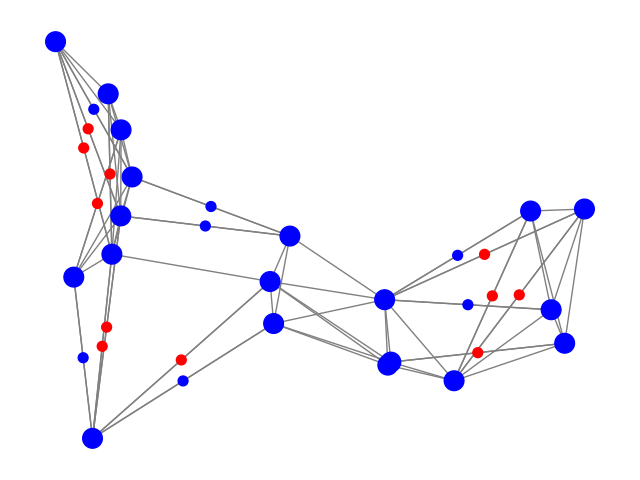
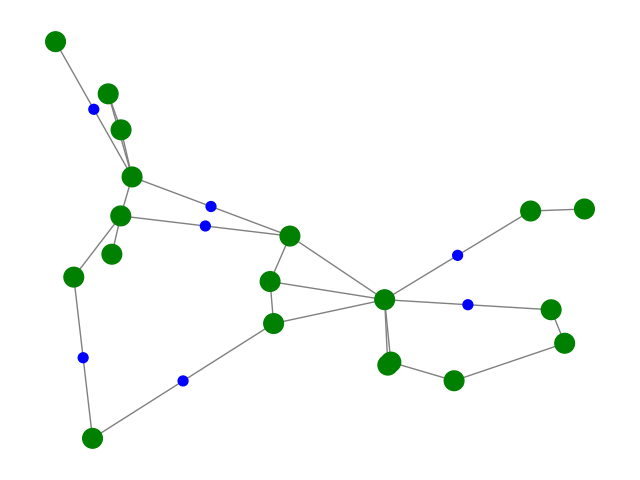
SECON version

diff --git a/src/utils/plot.py b/src/utils/plot.py
@@ -109,6 +109,7 @@ def plot_nx_graph(
 def plot_simple_topology(
         graph: nx.Graph,
         Im=None, Ic=None,
+        users=None,
         filename: str='./result/fig.png'
         ):
     """
@@ -122,27 +123,41 @@ def plot_simple_topology(
     #     if not 0 < lat < 90 or not -180 < lon < 180:
     #         raise ValueError(f'Invalid latitude and longitude: {lat}, {lon}')
     pos = {node: (lon, lat) for node, (lat, lon) in pos.items()}
-    node_colors = ['blue' if graph.nodes[node]['group'] == 0 else 'green' for node in graph.nodes]
+    # node_colors = ['blue' if graph.nodes[node]['group'] == 0 else 'green' for node in graph.nodes(data=False)]
     # node_colors = ['blue' for node in graph.nodes]
     node_sizes = [ 200 if graph.nodes[node]['group'] == 0 else 50 for node in graph.nodes]
 
 
     if Im is None:
-        Im = {node: 1 for node in graph.nodes}
+        Im = {node: 1 for node in graph.nodes(data=False)}
     if Ic is None:
-        Ic = {edge: 1 for edge in graph.edges}
+        Ic = {edge: 1 for edge in graph.edges(data=False)}
+    if users is None:
+        users = graph.nodes(data=False)
 
     # node_colors = ['blue' if graph.nodes[node]['group'] == 0 else 'red' for node in graph.nodes]
-    node_colors = ['blue' if Im[node] == 1 else 'red' for node in Im]
+    # node_colors = ['blue' if Im[node] == 1 else 'red' for node in Im.keys()]
+    # for user in users:
+    #     node_colors[user] = 'green'
+
+    # remove unused nodes
+    empty_nodes = [ node for node in Im.keys() if Im[node] == 0]
+    graph.remove_nodes_from(empty_nodes)
+    # node_colors = [color for node, color in zip(graph.nodes, node_colors)]
+    # node_sizes = [size for node, size in zip(graph.nodes, node_sizes)]
     # remove all edges
     graph.remove_edges_from(list(graph.edges))
     # add edges with channel utilization
     for edge in Ic:
         u, v = edge
-        graph.add_edge(u, v, weight=Ic[edge])
+        if Ic[edge] > 0:
+            graph.add_edge(u, v, length=Ic[edge])
 
+    node_sizes = [ 200 if graph.nodes[node]['group'] == 0 else 50 for node in graph.nodes]
+    node_colors = ['green' if size == 200 else 'blue' for size in node_sizes]
     nx.draw(graph, pos, with_labels=False, 
-        node_color=node_colors, node_size=node_sizes,
+        node_color=node_colors, 
+        node_size=node_sizes,
         edge_color='grey', width=1, edge_cmap=plt.cm.Blues
     )
 
@@ -156,6 +171,7 @@ def plot_lines(
     xlabel, ylabel,
     labels, 
     colors=None, 
+    markers=None,
     adjust=(0.2, 0.2, 0.95, 0.95),
     xscale='linear', yscale='linear',
     xticklabel=None, yticklabel=None,
@@ -170,15 +186,18 @@ def plot_lines(
     if colors is None:
         # get matpliotlib default color cycle
         colors = plt.rcParams['axes.prop_cycle'].by_key()['color']
+    if markers is None:
+        markers = ['o', 's', '^', 'v', 'x', '+', 'd', 'p', 'h']
     
-    for y, label, color, in zip(ys, labels, colors):
+    for y, label, color, marker in zip(ys, labels, colors, markers):
         # find first y > ylim[1]
         if ylim is not None:
             idx = np.where(y > ylim[1])[0]
             if len(idx) > 0:
                 y = y[:idx[0]]
                 x = x[:idx[0]]
-        plt.plot(x, y, label=label, color=color,)
+        # hollow markers
+        plt.plot(x, y, label=label, color=color, marker=marker, markerfacecolor='none', markersize=10)
 
     plt.xlabel(xlabel, fontsize=20)
     plt.ylabel(ylabel, fontsize=20)
@@ -211,9 +230,10 @@ def plot_2y_lines(
     xlabel, y1_label, y2_label,
     y1_labels, y2_labels,
     y1_styles, y2_styles,
-    y1_colors, y2_colors,
     y1_markers, y2_markers,
+    y1_colors=None, y2_colors=None,
     xscale='linear', y1_scale='linear', y2_scale='linear',
+    x_tickstyle=None, y1_tickstyle=None, y2_tickstyle=None,
     xreverse=False, y1_reverse=False, y2_reverse=False,
     xlim=None, y1_lim=None, y2_lim=None,
     filename='pic.png',
@@ -221,6 +241,10 @@ def plot_2y_lines(
     """
     two y-axis in one figure
     """
+    if y1_colors is None:
+        y1_colors = plt.rcParams['axes.prop_cycle'].by_key()['color']
+    if y2_colors is None:
+        y2_colors = plt.rcParams['axes.prop_cycle'].by_key()['color']
     if y1_labels is None:
         y1_labels = ['' for _ in ys1]
     if y2_labels is None:
@@ -266,6 +290,13 @@ def plot_2y_lines(
     ax1.set_xscale(xscale)
     ax1.set_yscale(y1_scale)
     ax2.set_yscale(y2_scale)
+    # set x ticklabel format
+    if x_tickstyle is not None:
+        ax1.ticklabel_format(axis='x', style=x_tickstyle, scilimits=(0,0))
+    if y1_tickstyle is not None:
+        ax1.ticklabel_format(axis='y', style=y1_tickstyle, scilimits=(0,0))
+    if y2_tickstyle is not None:
+        ax2.ticklabel_format(axis='y', style=y2_tickstyle, scilimits=(0,0))
     if xreverse:
         ax1.invert_xaxis()
     if y1_reverse:

diff --git a/src/test/topo.py b/src/test/topo.py
@@ -47,7 +47,7 @@ def run_path_solver(
     
     return total_time, times, objs, Im, Ic
 
-def compare_demand_intensity(params, repeat=1):
+def compare_dense_topology(params, repeat=1):
     """
     This set of evaluations compares different network scales
     """
@@ -55,18 +55,22 @@ def compare_demand_intensity(params, repeat=1):
     # random.seed(seed)
     # np.random.seed(seed)
     
-    density = 5
+    densities = [2, 4, 6, 8, 10]
+    demand = 10
     k = 100
-    fracs = [0.1, 0.5, 1]
-    names = ['LOW', 'MEDIUM', 'HIGH']
-    demands = [ 1, 10, 100,]
     seg_len = 150
 
-    opt_path_objs = np.zeros((len(demands), repeat)) * np.nan
-    opt_path_times = np.zeros((len(demands), repeat)) * np.nan
+    opt_path_objs = np.zeros((len(densities), repeat)) * np.nan
+    opt_path_times = np.zeros((len(densities), repeat)) * np.nan
 
-    for i, demand, frac in zip(range(len(demands)), demands, fracs):
-        print(f"demand {demand}")
+    vsrc = VertexSource.NOEL
+    vset = VertexSet(vsrc)
+    task = Task(vset, 0.5, (demand, demand+1))
+    raw_net = Topology(task=task, hw_params=params)
+
+
+    for i, density in enumerate(densities):
+        print(f"demand {density}")
     
         pool = mp.Pool(repeat)
         results = []
@@ -74,11 +78,7 @@ def compare_demand_intensity(params, repeat=1):
         for j in range(repeat):
             print(f"repeat {j}")
 
-            vsrc = VertexSource.NOEL
-            vset = VertexSet(vsrc)
-            task = Task(vset, frac, (demand, demand+1))
-            net = Topology(task=task, hw_params=params)
-
+            net = copy.deepcopy(raw_net)
             net.connect_nodes_nearest(density)
             # make sure the network is connected
             net.connect_nearest_component()
@@ -99,40 +99,40 @@ def compare_demand_intensity(params, repeat=1):
                 opt_path_times[i, j] = total_time
 
         # average the results
-        avg_opt_path_objs = np.nanmean(opt_path_objs, axis=1)
-        avg_opt_path_times = np.nanmean(opt_path_times, axis=1)
+        # avg_opt_path_objs = np.nanmean(opt_path_objs, axis=1)
+        # avg_opt_path_times = np.nanmean(opt_path_times, axis=1)
 
         # prepare for plotting
-        ys1 = [avg_opt_path_objs,]
-        ys2 = [avg_opt_path_times,]
-        y1_labels = ['Objective',]
-        y2_labels = ['Time',]
+        # ys1 = [avg_opt_path_objs,]
+        # ys2 = [avg_opt_path_times,]
+        # y1_labels = ['Objective',]
+        # y2_labels = ['Time',]
 
-        y1_stypes = ['-',] * len(y1_labels)
-        y2_stypes = ['--',] * len(y2_labels)
-        y1_colors = ['blue', 'green', 'red', 'orange', 'purple', 'brown']
-        y2_colors = ['blue', 'green', 'red', 'orange', 'purple', 'brown']
-        y1_markers = ['o', 's', '^', 'v', 'x', '+']
-        y2_markers = ['o', 's', '^', 'v', 'x', '+']
-        plot_2y_lines(
-            demands, ys1, ys2,
-            'Demands', 'Objective', 'Time', 
-            y1_labels, y2_labels,
-            y1_stypes, y2_stypes,
-            y1_colors, y2_colors,
-            y1_markers, y2_markers,
-            xscale='log', y1_scale='log', y2_scale='log',
-            xreverse=False, y1_reverse=False, y2_reverse=False,
-            xlim=None, y1_lim=None, y2_lim=None,
-            filename='demand.png'
-        )
+        # y1_stypes = ['-',] * len(y1_labels)
+        # y2_stypes = ['--',] * len(y2_labels)
+        # y1_colors = ['blue', 'green', 'red', 'orange', 'purple', 'brown']
+        # y2_colors = ['blue', 'green', 'red', 'orange', 'purple', 'brown']
+        # y1_markers = ['o', 's', '^', 'v', 'x', '+']
+        # y2_markers = ['o', 's', '^', 'v', 'x', '+']
+        # plot_2y_lines(
+        #     densities, ys1, ys2,
+        #     'Demands', 'Objective', 'Time', 
+        #     y1_labels, y2_labels,
+        #     y1_stypes, y2_stypes,
+        #     y1_colors, y2_colors,
+        #     y1_markers, y2_markers,
+        #     xscale='log', y1_scale='log', y2_scale='log',
+        #     xreverse=False, y1_reverse=False, y2_reverse=False,
+        #     xlim=None, y1_lim=None, y2_lim=None,
+        #     filename='demand.png'
+        # )
 
         users = set()
         for pair, demand in task.D.items():
             if demand > 0:
                 users.add(pair[0])
                 users.add(pair[1])
-        plot_simple_topology(net.graph, Im, Ic, users, filename=f'./result/demand/topology_{names[i]}.png')
+        plot_simple_topology(net.graph, Im, Ic, users, filename=f'./result/topo/topology_density={density}.png')
 
 if __name__ == '__main__':
     # set gurobi environment
@@ -141,4 +141,4 @@ if __name__ == '__main__':
     gp.setParam('OutputFlag', 0)
 
     params = copy.deepcopy(HWParam)
-    compare_demand_intensity(params, repeat=1)
+    compare_dense_topology(params, repeat=1)

diff --git a/src/network/quantum.py b/src/network/quantum.py
@@ -37,7 +37,6 @@ def complete_swap(costs: 'list[float]', swap_prob: float):
     
     return costs
 
-
 def relaxed_complete_swap(costs: 'list[float]', swap_prob: float):
     """
     conduct swaps as a  relaxed complete swapping tree
@@ -67,7 +66,6 @@ def relaxed_complete_swap(costs: 'list[float]', swap_prob: float):
     
     return costs
 
-
 def sequential_swap(costs: 'list[float]', swap_prob: float):
     """
     conduct swaps as a sequential binary tree
@@ -89,9 +87,13 @@ def get_edge_capacity(length: float, photon_rate: float, fiber_loss: float):
     # prob for half fiber (detectors are in the middle of edges)
     prob = 10 ** (-0.1 * fiber_loss * (length/2)) 
     channel_capacity = photon_rate * prob**2
+
+    # sided light sources and detectors
+    # prob = 10 ** (-0.1 * fiber_loss * length) 
+    # channel_capacity = photon_rate * prob
+
     
     return channel_capacity
-
 
 def get_edge_length(capacity: float, photon_rate: float, fiber_loss: float):
     """
@@ -106,17 +108,17 @@ def get_edge_length(capacity: float, photon_rate: float, fiber_loss: float):
 
 
 if __name__ == '__main__':
-    costs = [1,] * 13
-    swap_prob = 0.5
+    # costs = [1,] * 13
+    # swap_prob = 0.5
 
-    costs = complete_swap(costs, swap_prob)
-    print(costs)
-    costs = sequential_swap(costs, swap_prob)
-    print(costs)
-    costs = relaxed_complete_swap(costs, swap_prob)
-    print(costs)
+    # costs = complete_swap(costs, swap_prob)
+    # print(costs)
+    # costs = sequential_swap(costs, swap_prob)
+    # print(costs)
+    # costs = relaxed_complete_swap(costs, swap_prob)
+    # print(costs)
 
-    # cap = get_edge_capacity(100, 1e4, 0.2)
-    # print(cap)
-    # length = get_edge_length(100, 1e4, 0.2)
-    # print(length)
+    cap = get_edge_capacity(100, 1e4, 0.2)
+    print(cap)
+    length = get_edge_length(1, 1e4, 0.2)
+    print(length)

diff --git a/src/test/segmentation.py b/src/test/segmentation.py
@@ -107,23 +107,26 @@ def compare_segmentation_lengths(params, repeat=1):
         y1_labels = ['Objective',]
         y2_labels = ['Time',]
 
-        y1_stypes = ['-',] * len(y1_labels)
-        y2_stypes = ['--',] * len(y2_labels)
-        y1_colors = ['blue', 'green', 'red', 'orange', 'purple', 'brown']
-        y2_colors = ['blue', 'green', 'red', 'orange', 'purple', 'brown']
+        y1_styles = ['-',] * len(y1_labels)
+        y2_styles = ['--',] * len(y2_labels)
+        # y1_colors = ['blue', 'green', 'red', 'orange', 'purple', 'brown']
+        # y2_colors = ['blue', 'green', 'red', 'orange', 'purple', 'brown']
         y1_markers = ['o', 's', '^', 'v', 'x', '+']
-        y2_markers = ['o', 's', '^', 'v', 'x', '+']
+        y2_markers = ['s', '^', 'v', 'x', '+']
         plot_2y_lines(
             seg_lens, ys1, ys2,
             'Segmentation Length', 'Objective', 'Time', 
             y1_labels, y2_labels,
-            y1_stypes, y2_stypes,
-            y1_colors, y2_colors,
-            y1_markers, y2_markers,
+            y1_styles, y2_styles,
+            # y1_colors, y2_colors,
+            y1_markers=y1_markers, y2_markers=y2_markers,
             xscale='linear', y1_scale='linear', y2_scale='log',
+            y1_tickstyle='sci', 
             xreverse=False, y1_reverse=False, y2_reverse=False,
             xlim=None, y1_lim=None, y2_lim=None,
-            filename='segmentation.png'
+            # file folder is originally the project root
+            #  it is changed to result/segment for clarity without test
+            filename='./result/segment/segmentation.png'
         )
 
 if __name__ == '__main__':
@@ -134,4 +137,4 @@ if __name__ == '__main__':
 
     params = copy.deepcopy(HWParam)
     params['swap_prob'] = 0.75
-    compare_segmentation_lengths(params, repeat=3)
+    compare_segmentation_lengths(params, repeat=10)

diff --git a/src/test/prob.py b/src/test/prob.py
@@ -232,7 +232,7 @@ def compare_efficiency(vsrc:VertexSource, params, repeat=1):
                 'Density', 'Objective', 'Time',  
                 y1_labels, y2_labels,
                 ['-', '-', '-', '-', '-'], ['--', '--', '--', '--', '--'],
-                # ['blue', 'green', 'red', 'orange', 'purple'], ['blue', 'green', 'red', 'orange', 'purple'],
+                ['blue', 'green', 'red', 'orange', 'purple'], ['blue', 'green', 'red', 'orange', 'purple'],
                 ['o', 's', '^', 'v', 'x'], ['o', 's', '^', 'v', 'x'],
                 xscale='linear', y1_scale='linear', y2_scale='log',
                 xreverse=False, y1_reverse=False, y2_reverse=False,
@@ -281,11 +281,11 @@ if __name__ == '__main__':
     gp.setParam('OutputFlag', 0)
 
     params = copy.deepcopy(HWParam)
-    # params['swap_prob'] = 0.5
+    params['swap_prob'] = 0.5
 
     # vsrcs = [VertexSource.EENET, VertexSource.NOEL, VertexSource.RENATOR]
     vsrcs = [VertexSource.RENATOR]
     for vsrc in vsrcs:
-        compare_efficiency(vsrc, params, repeat=1)
-        # load_plot_result(vsrc)
+        # compare_efficiency(vsrc, params, repeat=1)
+        load_plot_result(vsrc)
     

diff --git a/src/test/ratio.py b/src/test/ratio.py
@@ -109,8 +109,13 @@ def compare_price_ratio(params, repeat=1):
                 edge_budgets[i, j] = edge_budget
 
         # use last solution for network topology
-        plot_simple_topology(net.graph, filename='./result/ratio/topology_original.png')
-        plot_simple_topology(net.graph, Im, Ic, filename=f'./result/ratio/topology_{ratio}.png')
+        # plot_simple_topology(net.graph, filename='./result/ratio/topology_original.png')
+        users = set()
+        for pair, demand in net.task.D.items():
+            if demand > 0:
+                users.add(pair[0])
+                users.add(pair[1])
+        plot_simple_topology(net.graph, Im, Ic, users, filename=f'./result/ratio/topology_{ratio}.png')
 
         # # average the results
         # avg_node_budgets = np.nanmean(node_budgets, axis=1)
